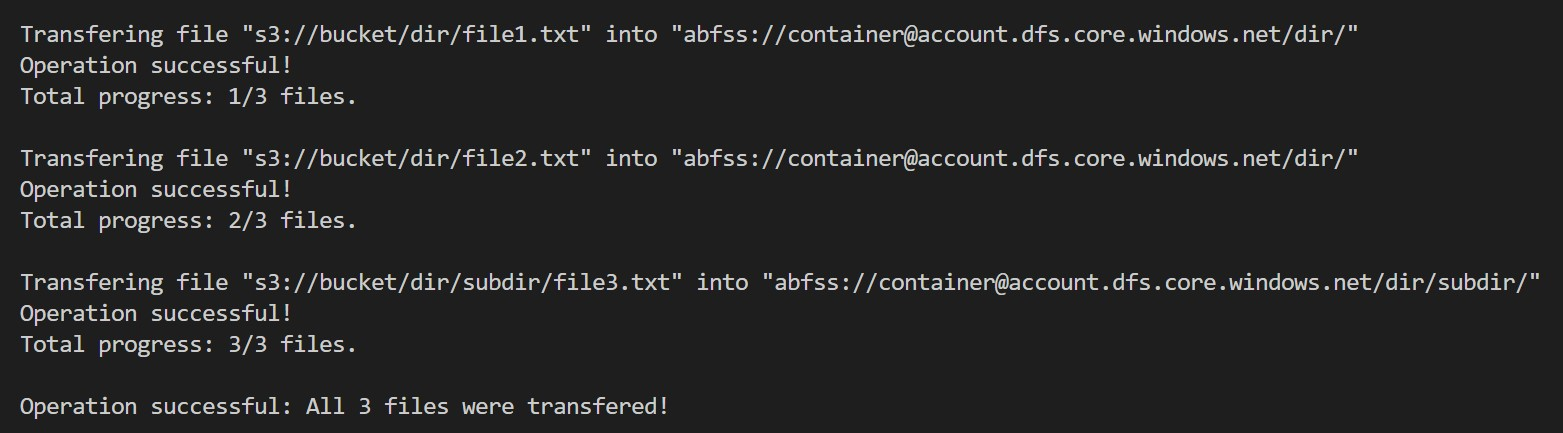
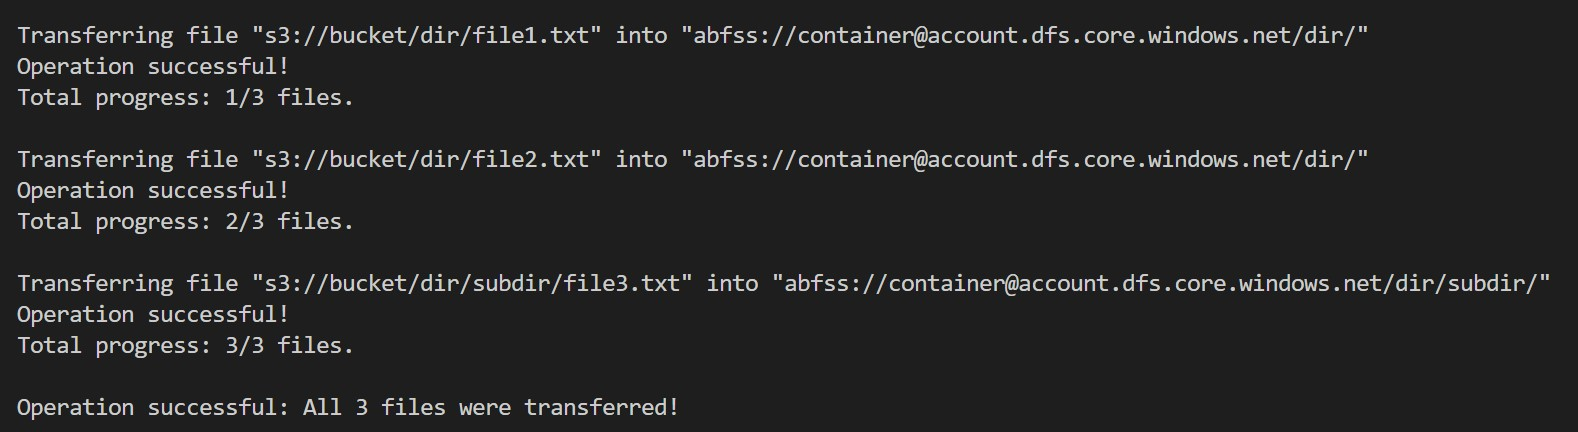
fix typo

diff --git a/fluke/storage.py b/fluke/storage.py
@@ -256,7 +256,7 @@ class _File(_ABC):
             existing metadata are to be assigned to the resulting \
             file. Defaults to ``False``.
         :param int | None chunk_size: If not ``None``, then files are \
-            transfered in chunks, whose size are equal to this parameter \
+            transferred in chunks, whose size are equal to this parameter \
             value. Defaults to ``None``.
         :param bool suppress_output: If set to ``True``, then \
             suppresses all output. Defaults to ``False``.
@@ -270,7 +270,7 @@ class _File(_ABC):
             else dst.get_path()
         
         if not suppress_output:
-            print(f'\nTransfering file "{source}" into "{destination}".')
+            print(f'\nTransferring file "{source}" into "{destination}".')
 
         dst_fp = dst._to_absolute(self.get_name(), replace_sep=True)
 
@@ -1244,7 +1244,7 @@ class _Directory(_ABC):
         '''
         Copies all files within this directory into \
         the destination directory. Returns ``True`` if \
-        all files were successfully transfered, else returns \
+        all files were successfully transferred, else returns \
         ``False``.
 
         :param _Directory dst: A ``_Directory`` class instance, \
@@ -1262,7 +1262,7 @@ class _Directory(_ABC):
             existing metadata are to be assigned to the resulting \
             files. Defaults to ``False``.
         :param int | None chunk_size: If not ``None``, then files are \
-            transfered in chunks, whose size are equal to this parameter \
+            transferred in chunks, whose size are equal to this parameter \
             value. Defaults to ``None``.
         :param bool suppress_output: If set to ``True``, then \
             suppresses all output. Defaults to ``False``.
@@ -1278,7 +1278,7 @@ class _Directory(_ABC):
         failures = 0
         dst_dirs = dict()
 
-        # Iterate through all files that are to be transfered.
+        # Iterate through all files that are to be transferred.
         for i, fp in enumerate(file_paths):
 
             # Define src and dst paths.
@@ -1312,7 +1312,7 @@ class _Directory(_ABC):
 
         if failures == 0:
             if not suppress_output:
-                print(f'\nOperation successful: All {total_num_files} files were transfered!')
+                print(f'\nOperation successful: All {total_num_files} files were transferred!')
             return True
         else:
             if not suppress_output:
